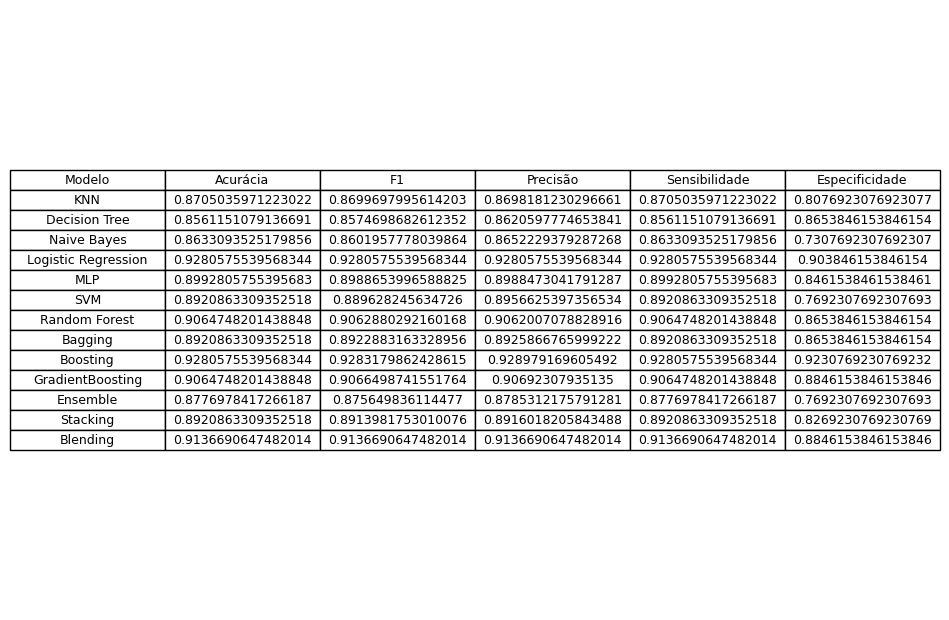
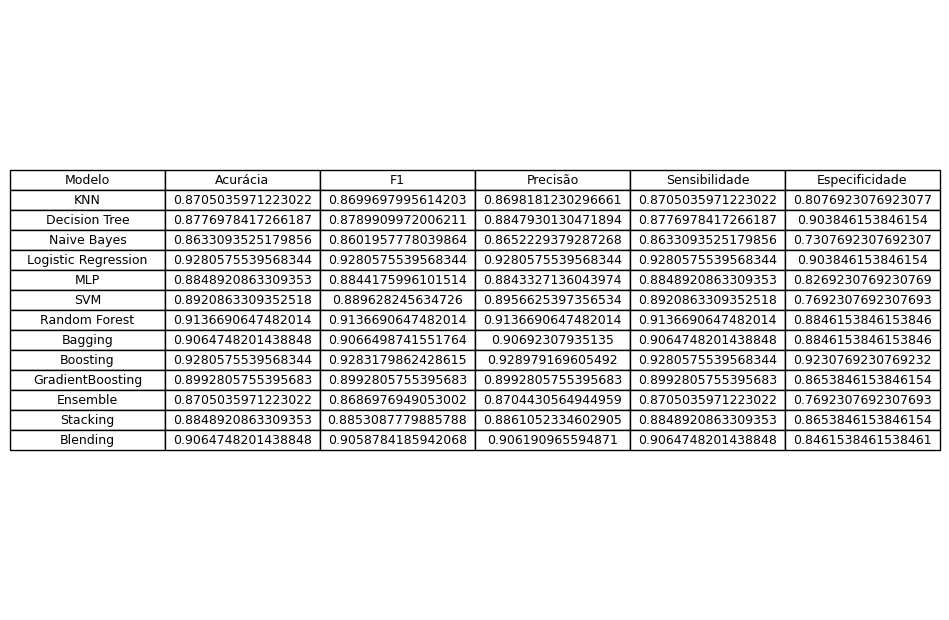
Arrumando para ter a especificidade corretamente

diff --git a/main.py b/main.py
@@ -3,7 +3,7 @@ import numpy as np
 
 from sklearn.model_selection import train_test_split, cross_validate, KFold
 from sklearn.metrics import accuracy_score, f1_score, precision_score, recall_score, confusion_matrix
-from sklearn.metrics import r2_score, mean_squared_error, mean_absolute_error
+from sklearn.metrics import r2_score, mean_squared_error, mean_absolute_error, make_scorer
 
 from sklearn.neighbors import KNeighborsClassifier, KNeighborsRegressor
 from sklearn.tree import DecisionTreeClassifier, DecisionTreeRegressor
@@ -31,6 +31,12 @@ def classification_metrics(y_true, y_pred):
     rec = recall_score(y_true, y_pred, average="weighted")
     tn, fp, fn, tp = confusion_matrix(y_true, y_pred).ravel() if len(np.unique(y_true))==2 else (0,0,0,0)
     espec = tn/(tn+fp) if (tn+fp)>0 else np.nan
+    print(f"tn = {tn} \n fp = {fp} \n")
+    #Imprimir matriz de confusão para testar
+    confusion = confusion_matrix(y_true=y_true, y_pred=y_pred)
+    print(confusion)
+
+
     return acc, f1, prec, rec, espec
 
 def regression_metrics(y_true, y_pred):
@@ -43,6 +49,23 @@ def regression_metrics(y_true, y_pred):
 # ============================================================
 # CLASSIFICAÇÃO (Hold-out e CrossVal)
 # ============================================================
+
+# Função de especificidade
+def specificity_score(y_true, y_pred):
+    cm = confusion_matrix(y_true, y_pred)
+    if cm.shape == (2,2):  # só faz sentido para classificação binária
+        tn, fp, fn, tp = cm.ravel()
+        return tn / (tn + fp) if (tn+fp) > 0 else 0
+    else:
+        # para multi-classe: calcula média da especificidade "classe vs resto"
+        especs = []
+        for i in range(len(cm)):
+            tn = cm.sum() - (cm[i,:].sum() + cm[:,i].sum() - cm[i,i])
+            fp = cm[:,i].sum() - cm[i,i]
+            especs.append(tn / (tn + fp) if (tn+fp) > 0 else 0)
+        return np.mean(especs)
+
+specificity = make_scorer(specificity_score)
 
 def run_classification(X, y, cv=False):
     results = []
@@ -73,7 +96,7 @@ def run_classification(X, y, cv=False):
         final_estimator=LogisticRegression()
     )
 
-    # Blending (simulado via Voting soft)
+    # Blending (simulado via Voting sonft)
     models["Blending"] = VotingClassifier(estimators=[
         ('rf', RandomForestClassifier()),
         ('mlp', MLPClassifier(max_iter=500))
@@ -81,15 +104,22 @@ def run_classification(X, y, cv=False):
 
     if cv:
         kf = KFold(n_splits=5, shuffle=True, random_state=42)
+        scoring = {
+            'accuracy': 'accuracy',
+            'f1_weighted': 'f1_weighted',
+            'precision_weighted': 'precision_weighted',
+            'recall_weighted': 'recall_weighted',
+            'specificity': specificity
+        }
         for name, model in models.items():
-            scores = cross_validate(model, X, y, cv=kf,
-                                    scoring=['accuracy','f1_weighted','precision_weighted','recall_weighted'])
+            scores = cross_validate(model, X, y, cv=kf, scoring=scoring)
             results.append([name,
                             scores['test_accuracy'].mean(),
                             scores['test_f1_weighted'].mean(),
                             scores['test_precision_weighted'].mean(),
                             scores['test_recall_weighted'].mean(),
-                            np.nan])  # especificidade só em holdout binário
+                            scores['test_specificity'].mean()])
+
     else:
         X_train, X_test, y_train, y_test = train_test_split(X, y, test_size=0.35, random_state=42)
         for name, model in models.items():
